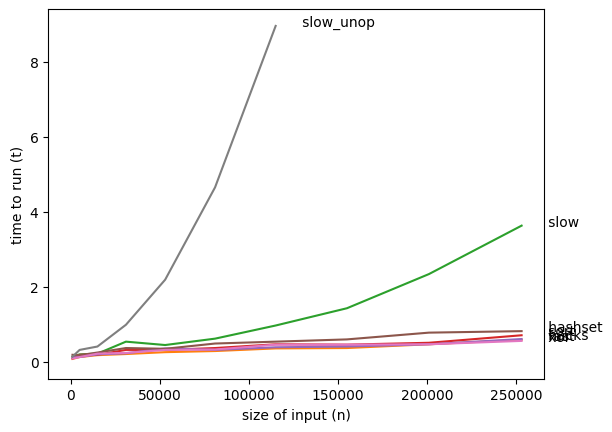
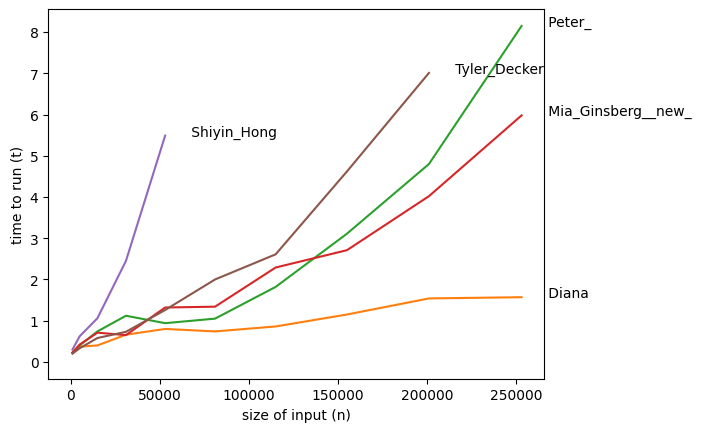
Added results from the both workshops, plus updated the run script to work with them (whoops)

diff --git a/run.py b/run.py
@@ -71,7 +71,7 @@ plt.savefig('plot.png', bbox_inches='tight')
 
 # Load responses and run
 res_file = sys.argv[1]
-prob = sys.argv[2]
+prob = 'Form Responses 1'
 res_sheet = load_workbook(filename=res_file)[prob]
 name_index, code_index = ('B', 'C') if res_sheet[f'B{1}'].value == 'Name' else ('C', 'B')
 for i in range(2, res_sheet.max_row+1):
